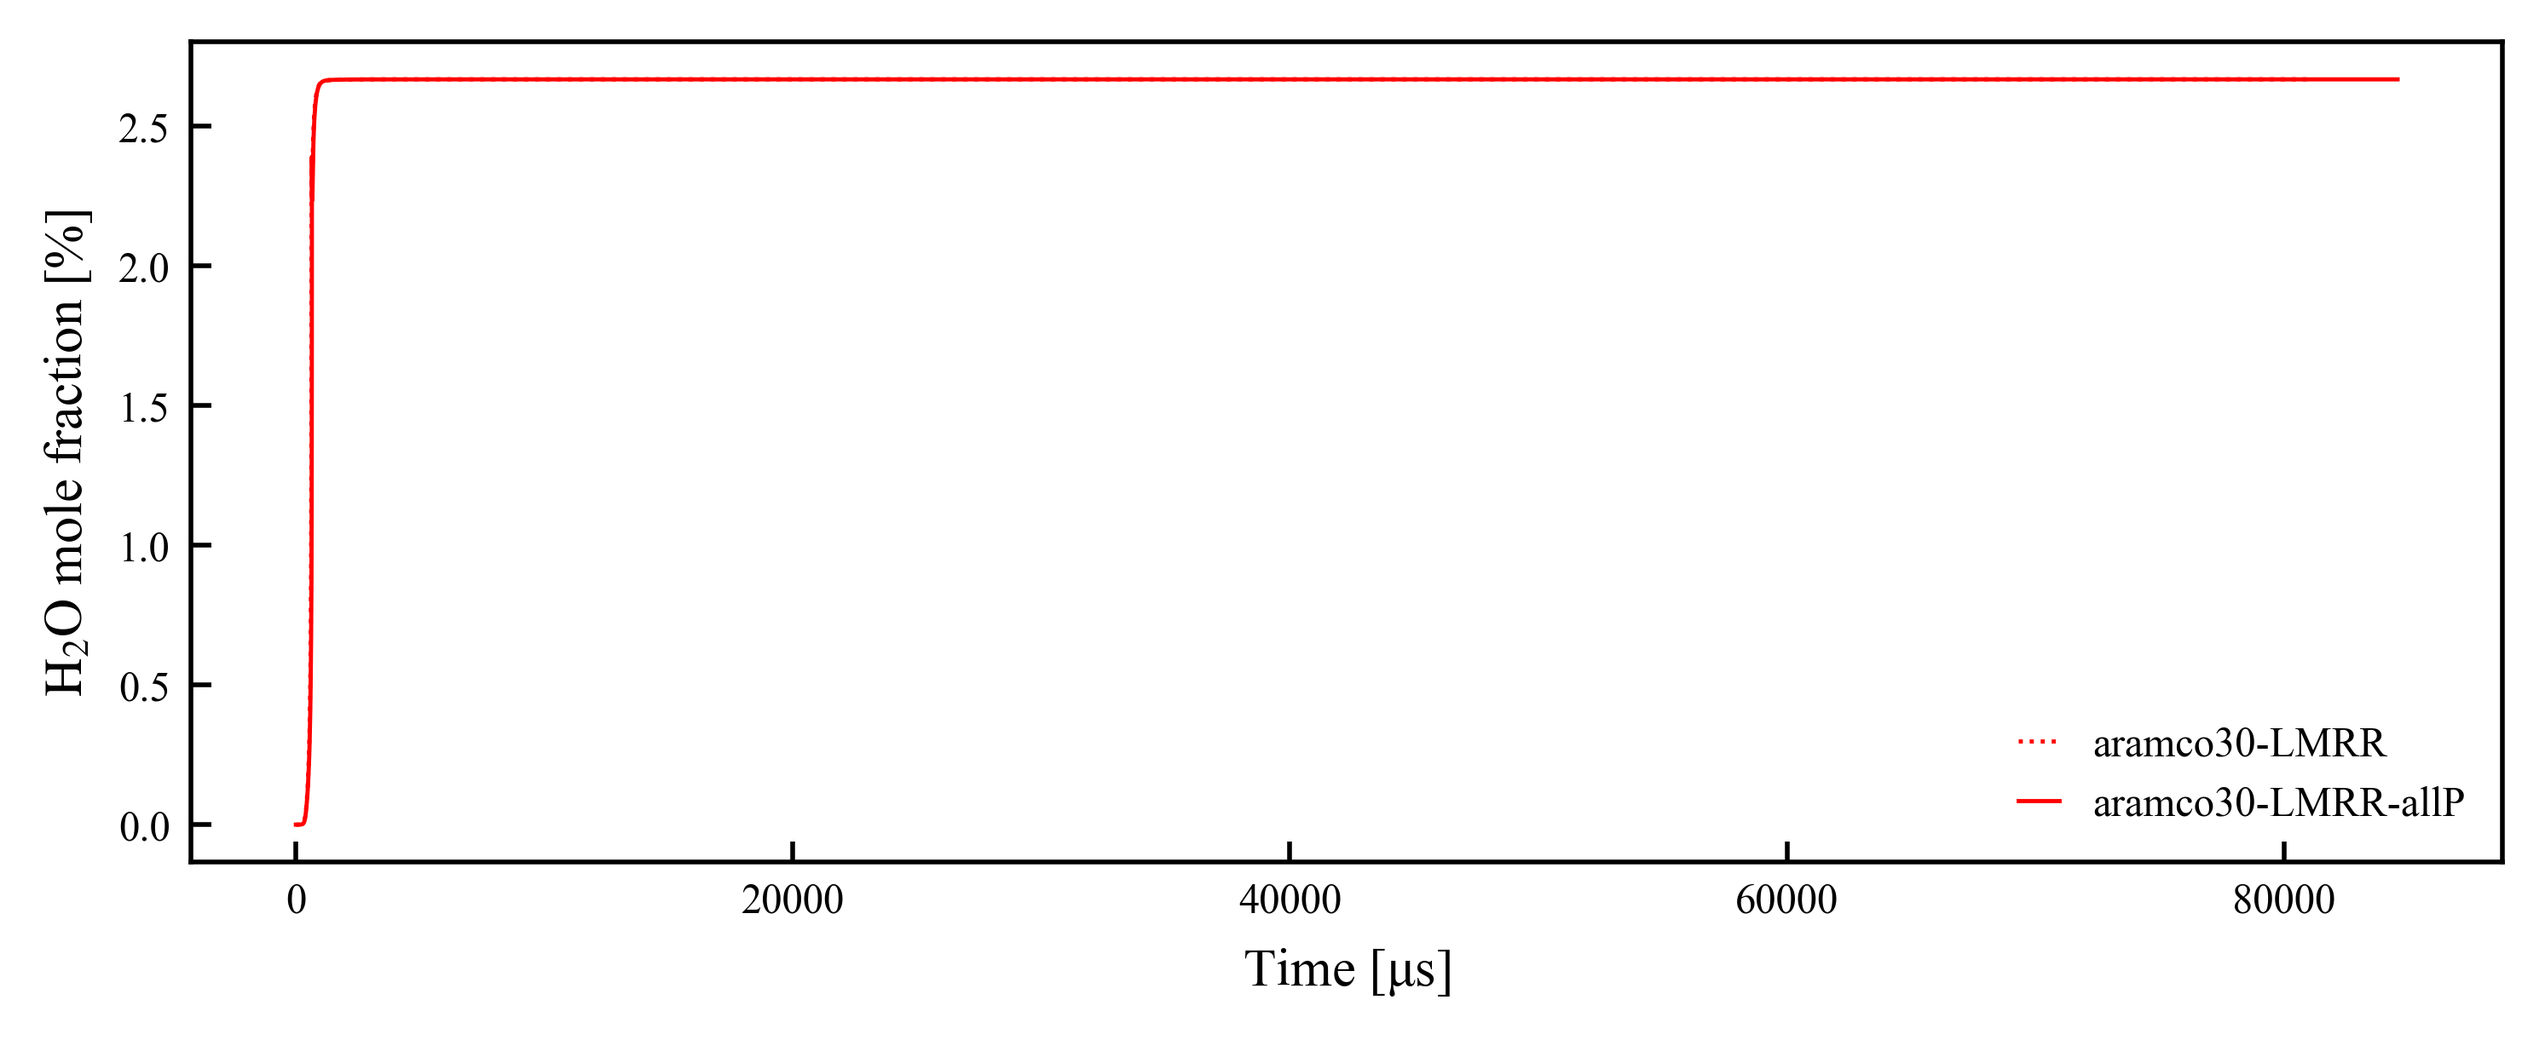
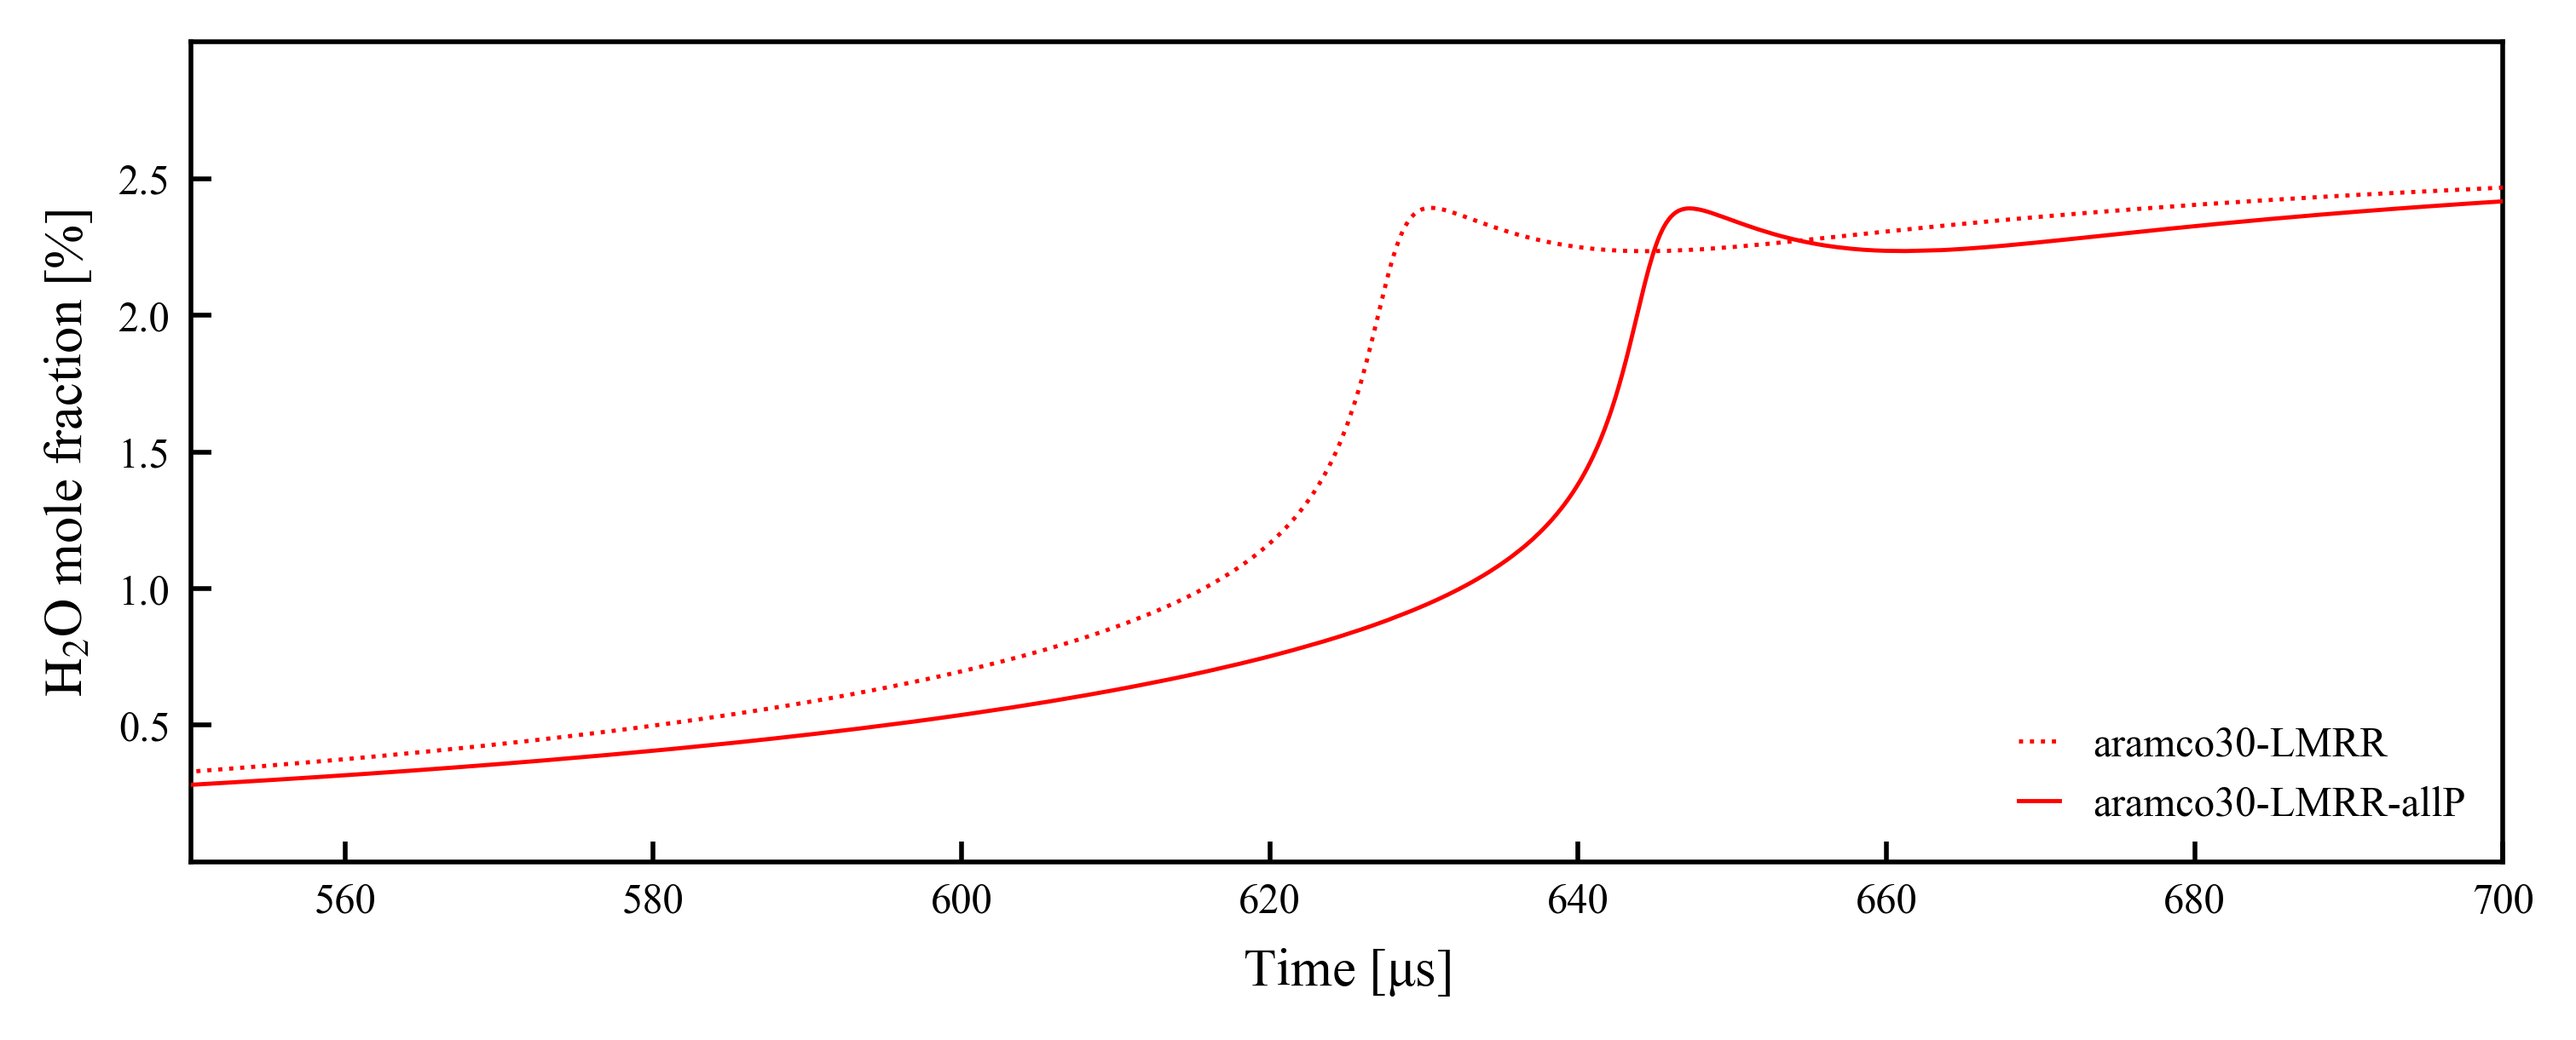
first ST sim plots for aramco

diff --git a/USSCI/simulateshocktubeAramco_USSCI.py b/USSCI/simulateshocktubeAramco_USSCI.py
@@ -93,8 +93,8 @@ ax.legend(fontsize=lgdfsz,handlelength=lgdw, frameon=False, loc='lower right')
 ax.set_ylabel(r'$\rm H_2O$ mole fraction [%]')
 ax.set_xlabel(r'Time [$\mathdefault{\mu s}$]')
 ax.tick_params(axis='both', direction="in")#, labelsize=7)
-ax.set_xlim([0.0001,299.999])
-ax.set_ylim([2.25,2.75])
+ax.set_xlim([550,700])
+ax.set_ylim([0.0001,2.999])
 
 # import matplotlib.ticker as ticker
 # ax.xaxis.set_major_locator(ticker.MultipleLocator(50))
